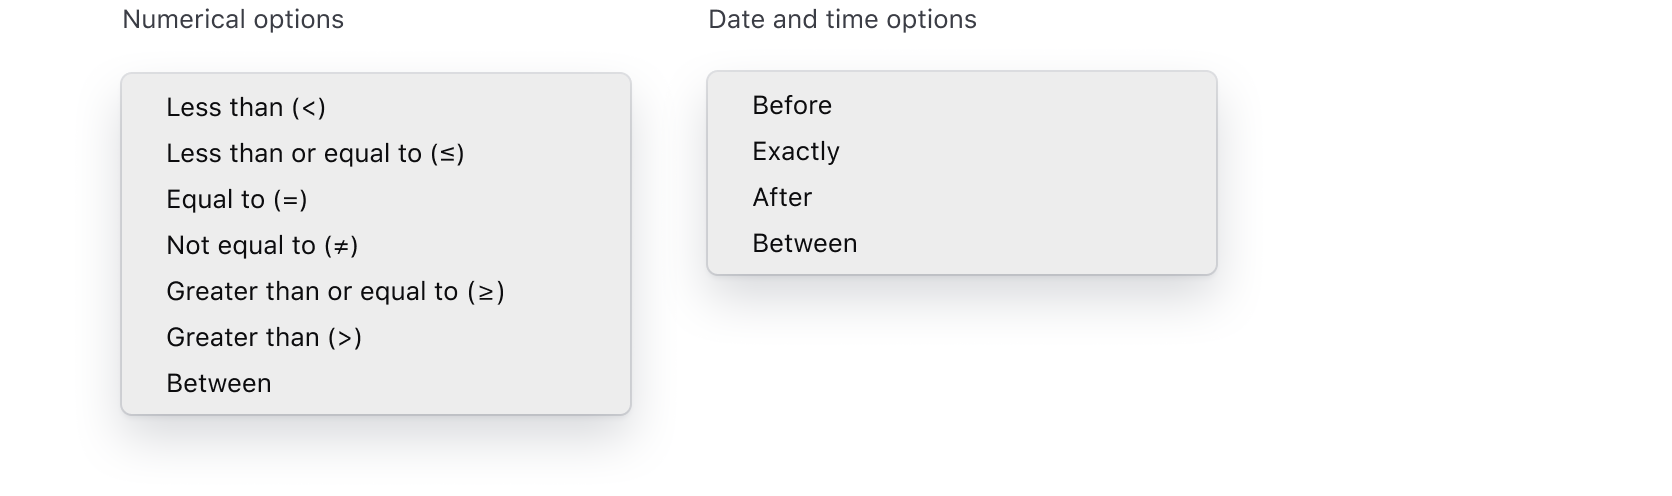
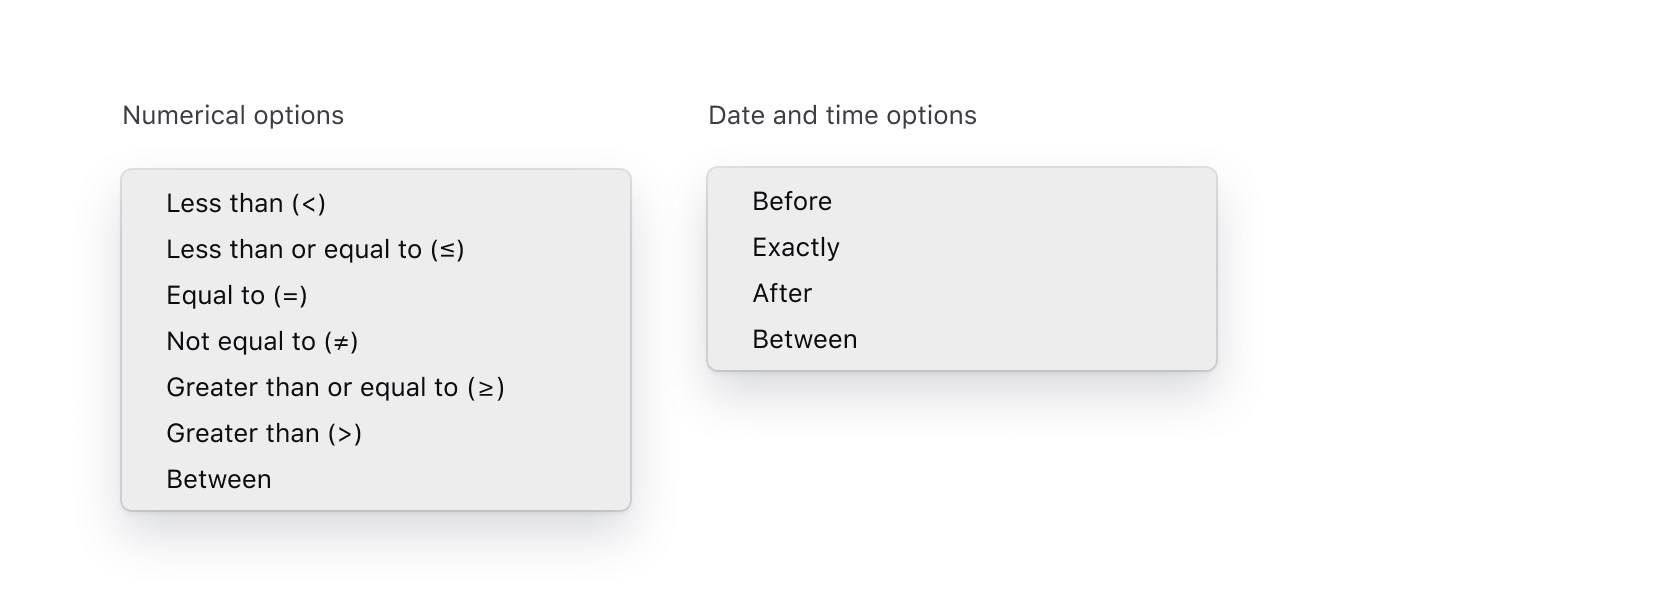
Cleanup of the specifications and breakdown of anatomy sections to be more clear

diff --git a/website/docs/components/filter-bar/partials/specifications/anatomy.md b/website/docs/components/filter-bar/partials/specifications/anatomy.md
@@ -17,33 +17,56 @@
 
 ### Filter Dropdown
 
-#### Filter value list
+The Filter Dropdown anatomy is dependent on the filter method and is dependent on the filtering method:
 
-![](/assets/components/filter-bar/filter-bar-dropdown-anatomy-01.png)
+- Selection: multi-selection using checkboxes or single selection using radios.
+- Input: numerical, date, time, datetime values, or a range between a start and end value.
+
+![](/assets/components/filter-bar/filter-bar-dropdown-anatomy.png)
 
 | Element          | Usage                  |
 |------------------|------------------------|
 | Parameters list | Displays all of the available filter parameters, generally corresponding with columns in a table. |
-| Values list | Displays all of the available values within a parameter. Relevant for multi-selection using Checkboxes and single-selection using Radios. |
-| Search across values | Searches across available filter parameter values. |
-| Clear selected values action | De-selects all values in the list. |
-| Value input | Allows the user to input a custom value to filter upon such as a number, string, date, or time. |
+| Filter value(s) | Displays  available values within a parameter for selection, or allows the input of custom values. |
 | Apply Filters action | Applies the filters selected in either the values list or the values input. |
 | Clear all filters action | Clears the selection of filters across all parameters. |
+
+#### Filter value selection
+
+![](/assets/components/filter-bar/filter-bar-dropdown-anatomy-selection.png)
+<Doc::ImageCaption @text="This filter value selection anatomy is the same for single selection using radios." />
+
+| Element          | Usage                  |
+|------------------|------------------------|
+| Search | Searches across available filter parameter values using string matching. |
+| Clear selected values action | De-selects all values in the list. |
+| Value input | Allows the user to input a custom value to filter upon such as a number, string, date, or time. |
 
 #### Filter value input
 
-![](/assets/components/filter-bar/filter-bar-dropdown-anatomy-02.png)
+![](/assets/components/filter-bar/filter-bar-dropdown-anatomy-input.png)
 
 | Element          | Usage                  |
 |------------------|------------------------|
-| Parameters list | Displays all of the available filter parameters, generally corresponding with columns in a table. |
-| Value input | Allows the user to input a custom value to filter upon such as a number, string, date, or time. |
+| Operator selection | Allows the user to select how the filter is applied. |
+| Value input | Allows the user to input a value to filter upon such as a number, string, date, or time. |
+| Clear filter | Clears the filter operator and input fields. |
+
+#### Filter value range input
+
+When applying a filter value via an input, if `Between` is selected in the operator list, the input fields will be broken into a `start` value and `end` value.
+
+![](/assets/components/filter-bar/filter-bar-dropdown-anatomy-input-range.png)
+
+| Element          | Usage                  |
+|------------------|------------------------|
+| Operator selection | Allows the user to select how the filter is applied. |
+| Value range input | Allows the user to input a start and end value to filter upon. |
 | Clear filter fields action | Clears the filter input field. |
-| Apply Filters action | Applies the filters selected in either the values list or the values input. |
-| Clear all filters action | Clears the selection of filters across all parameters. |
 
 ##### Value input operators
+
+Available operators are dependent on the type of data being filtered upon, but are generally either numerical, or date/time based.
 
 ![](/assets/components/filter-bar/filter-bar-dropdown-operator-options.png)
 
@@ -51,9 +74,3 @@
 |------|-----------|
 | Numerical | Less than (>), Less than or equal to (≤), Equal to (=), Not equal to (≠), Greater than or equal to (≥), Greater than (>), Between |
 | Date and time | Before, Exactly, After, Between |
-
-##### Range inputs
-
-When applying a filter value via an input, if `Between` is selected in the operator list, the input fields will be broken into a `start` value and `end` value.
-
-![Example of numerical ranges](/assets/components/filter-bar/filter-bar-dropdown-range-input.png)
